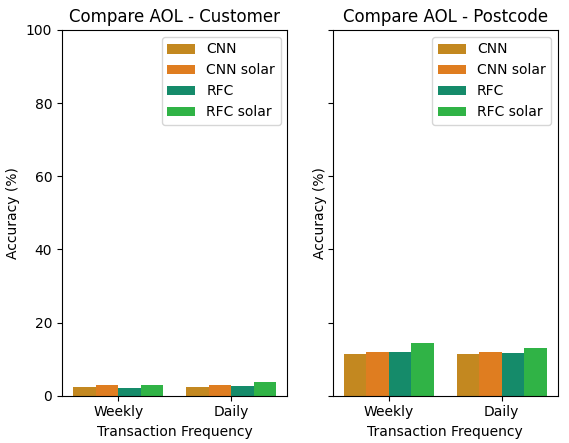
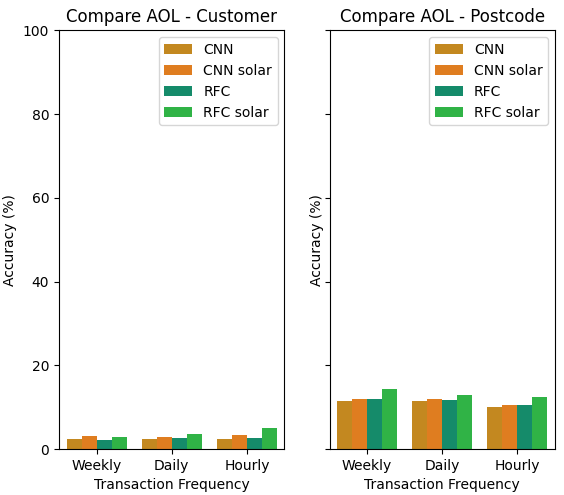
Remainder of CNN results for solar hourly

diff --git a/Code/graphs.py b/Code/graphs.py
@@ -2,6 +2,7 @@ import os
 import sys
 import pandas as pd
 import matplotlib.pyplot as plt
+from  matplotlib.ticker import PercentFormatter
 import seaborn as sns
 
 
@@ -303,12 +304,12 @@ def graphs_obj3():
     rfc_post_aol = [11.86, 11.67, 10.43]
 
     # Solar results
-    cnn_cust_lpc_s = [67.98, 76.36, 0]
-    cnn_cust_lpp_s = [67.87, 76.58, 0]
-    cnn_cust_aol_s = [3.05, 2.84, 0]
-    cnn_post_lpc_s = [55.06, 62.49, 0]
-    cnn_post_lpp_s = [52.27, 59.47, 0]
-    cnn_post_aol_s = [12.04, 11.94, 0]
+    cnn_cust_lpc_s = [67.98, 76.36, 82.33]
+    cnn_cust_lpp_s = [67.87, 76.58, 83.49]
+    cnn_cust_aol_s = [3.05, 2.84, 3.31]
+    cnn_post_lpc_s = [55.06, 62.49, 66.14]
+    cnn_post_lpp_s = [52.27, 59.47, 65.06]
+    cnn_post_aol_s = [12.04, 11.94, 10.55]
 
     rfc_cust_lpc_s = [71.77, 72.90, 70.56]
     rfc_cust_lpp_s = [75.89, 74.55, 71.61]
@@ -341,6 +342,25 @@ def graphs_obj3():
     plot_comp_post = pd.DataFrame({'cats': x_cats, 'CNN': cnn_post_aol, 'CNN solar': cnn_post_aol_s,
                                    'RFC': rfc_post_aol, 'RFC solar': rfc_post_aol_s})
     grapher(["Compare AOL - Customer", "Compare AOL - Postcode"], [plot_comp_cust, plot_comp_post], palette)
+
+    # Correlation distribution
+    data = [44, 2, 3, 2, 22, 55, 4, 6, 1, 35, 71, 23, 12, 22, 35, 26, 96, 8, 17, 9, 61, 72, 19, 23, 95, 16, 96, 9, 96,
+            15, 10, 20, 87, 19, 45, 38, 3, 20, 18, 18, 84, 89, 35, 5, 1, 49, 4, 46, 19, 6, 0, 38, 0, 99, 17, 10, 9, 2,
+            0, 19, 4, 22, 40, 11, 14, 31, 15, 12, 38, 37, 0, 21, 1, 5, 10, 35, 34, 25, 96, 2, 8, 81, 5, 0, 16, 65, 81,
+            26, 1, 15, 10, 15, 7, 2, 36, 1, 24, 0, 24, 0, 50, 44, 12, 0, 60, 4, 80, 61, 5, 90, 21, 38, 18, 52, 43, 2,
+            15, 2, 23, 43, 32, 17, 21, 92, 51, 5, 49, 99, 0, 29, 58, 22, 67, 7, 24, 5, 35, 4, 28, 17, 58, 0, 24, 5, 27,
+            26, 15, 0, 94, 50, 12, 3, 73, 24, 24, 0, 4, 79, 66, 0, 3, 22, 3, 45, 9, 0, 4, 33, 11, 40, 0, 8, 10, 4, 1, 2,
+            90, 68, 3, 10, 1, 84, 82, 91, 13, 31, 0, 0, 11, 69, 44, 15, 33, 0, 40, 12, 9, 4, 7, 25, 0, 34, 4, 21, 8, 8,
+            1, 50, 54, 11, 60, 8, 6, 15, 53, 20, 0, 37, 79, 15, 61, 47, 13, 31, 26, 12, 38, 54, 3, 30, 2, 3, 0, 17, 8,
+            0, 2, 20, 1, 57, 21, 20, 92, 5, 4, 95, 12, 2, 3, 2, 7, 6, 19, 1, 14, 51, 2, 33, 97, 8, 30, 9, 11, 1, 12, 49,
+            7, 3, 16, 10]
+
+    ax = sns.distplot(data, bins=100, kde=True)
+    ax.yaxis.set_major_formatter(PercentFormatter(1))
+    ax.set_xlabel("Correlation rank")
+    ax.set_ylabel("Frequency (%)")
+    ax.set(xlim=(0, 100))
+    plt.show()
 
 
 def graphs_obj4():
